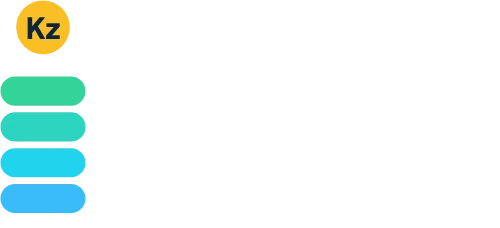
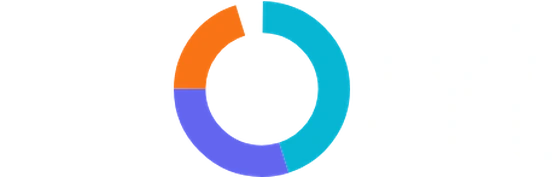
iCont: logótipo B (gráfico circular)
Claude-Session: https://claude.ai/code/session_01K7FmzP1qEsbZiXjPfoHnUc

diff --git a/.claude/marca/negocios/icont-logo-final.html b/.claude/marca/negocios/icont-logo-final.html
@@ -1,15 +1,19 @@
 <!doctype html><html><head><meta charset="utf-8"><style>
 @font-face{font-family:J;font-weight:800;src:url("file:///home/user/pepereh/assets/fonts/plus-jakarta-sans-latin-800-normal.woff2")}
 html,body{margin:0;background:transparent}
-.logo{display:inline-flex;align-items:flex-end;gap:14px;padding:10px 16px}
-.w{font-family:J;font-weight:800;letter-spacing:-6px;line-height:.78;font-size:180px}
+.logo{display:inline-flex;align-items:center;padding:10px 16px}
+.w{font-family:J;font-weight:800;letter-spacing:-6px;line-height:1;font-size:180px}
 </style></head><body>
-<div class="logo" id="dark"><svg width="112" height="226" viewBox="0 0 50 101">
-<circle cx="25" cy="14" r="12" fill="#fbbf24"/><text x="25" y="19" font-family="J" font-weight="800" font-size="13" text-anchor="middle" fill="#0b2540">Kz</text>
-<rect x="6" y="36" width="38" height="13" rx="6.5" fill="#34d399"/><rect x="6" y="52" width="38" height="13" rx="6.5" fill="#2dd4bf"/><rect x="6" y="68" width="38" height="13" rx="6.5" fill="#22d3ee"/><rect x="6" y="84" width="38" height="13" rx="6.5" fill="#38bdf8"/></svg>
-<div class="w" style="color:#0b2540">cont</div></div>
-<div class="logo" id="light" style="background:transparent"><svg width="112" height="226" viewBox="0 0 50 101">
-<circle cx="25" cy="14" r="12" fill="#fbbf24"/><text x="25" y="19" font-family="J" font-weight="800" font-size="13" text-anchor="middle" fill="#0b2540">Kz</text>
-<rect x="6" y="36" width="38" height="13" rx="6.5" fill="#34d399"/><rect x="6" y="52" width="38" height="13" rx="6.5" fill="#2dd4bf"/><rect x="6" y="68" width="38" height="13" rx="6.5" fill="#22d3ee"/><rect x="6" y="84" width="38" height="13" rx="6.5" fill="#38bdf8"/></svg>
-<div class="w" style="color:#ffffff">cont</div></div>
+<div class="logo" id="dark"><div class="w" style="color:#111827">ic</div>
+<svg width="158" height="158" viewBox="0 0 42 42" style="margin:26px -4px 0 3px"><circle cx="21" cy="21" r="15.9" fill="none" stroke="#e5e7eb" stroke-width="7"/>
+<circle cx="21" cy="21" r="15.9" fill="none" stroke="#06b6d4" stroke-width="7" stroke-dasharray="45 55" stroke-dashoffset="25"/>
+<circle cx="21" cy="21" r="15.9" fill="none" stroke="#6366f1" stroke-width="7" stroke-dasharray="30 70" stroke-dashoffset="-20"/>
+<circle cx="21" cy="21" r="15.9" fill="none" stroke="#f97316" stroke-width="7" stroke-dasharray="20 80" stroke-dashoffset="-50"/></svg>
+<div class="w" style="color:#111827">nt</div></div>
+<div class="logo" id="light"><div class="w" style="color:#ffffff">ic</div>
+<svg width="158" height="158" viewBox="0 0 42 42" style="margin:26px -4px 0 3px"><circle cx="21" cy="21" r="15.9" fill="none" stroke="rgba(255,255,255,.25)" stroke-width="7"/>
+<circle cx="21" cy="21" r="15.9" fill="none" stroke="#06b6d4" stroke-width="7" stroke-dasharray="45 55" stroke-dashoffset="25"/>
+<circle cx="21" cy="21" r="15.9" fill="none" stroke="#6366f1" stroke-width="7" stroke-dasharray="30 70" stroke-dashoffset="-20"/>
+<circle cx="21" cy="21" r="15.9" fill="none" stroke="#f97316" stroke-width="7" stroke-dasharray="20 80" stroke-dashoffset="-50"/></svg>
+<div class="w" style="color:#ffffff">nt</div></div>
 </body></html>

diff --git a/.claude/marca/brand-profile.md b/.claude/marca/brand-profile.md
@@ -90,5 +90,5 @@
 
 ## Notes
 - Clientes chegam sobretudo por boca a boca — as redes servem para confirmar credibilidade e facilitar o contacto.
-- Negócios próprios (todos «Brevemente», ver _data/negocios.yml): **KiPUPU** — a plataforma que lava o seu carro; **iCont** — contabilidade e gestão da empresa resolvidas num só lugar (logótipo: «i» de moedas com Kz); **VaiBem** — aplicação de mobilidade urbana que ajuda a população a mover-se com propósito e prosperidade.
+- Negócios próprios (todos «Brevemente», ver _data/negocios.yml): **KiPUPU** — a plataforma que lava o seu carro; **iCont** — contabilidade e gestão da empresa resolvidas num só lugar (logótipo: o «o» é um gráfico circular ciano, violeta e laranja); **VaiBem** — aplicação de mobilidade urbana que ajuda a população a mover-se com propósito e prosperidade.
 - Notícias semanais do site (skill noticias-pepereh) podem ser reaproveitadas para as redes.
